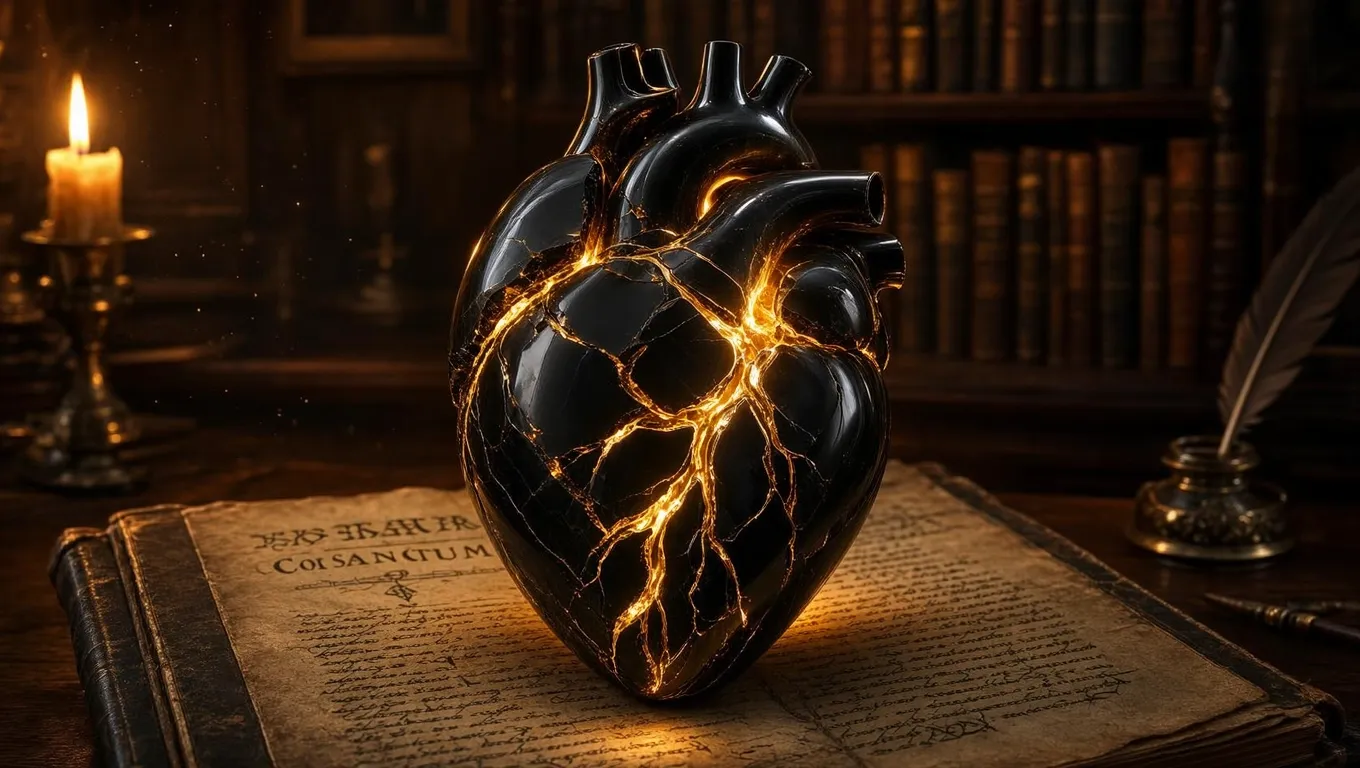
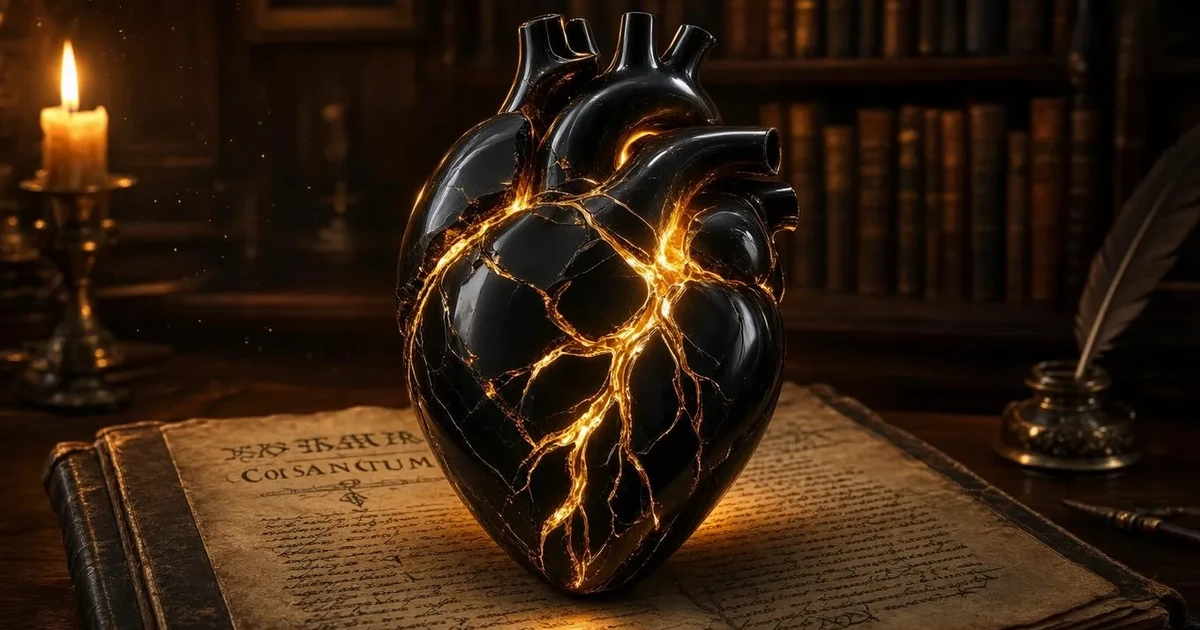
fix(seo): NEW-59-REOPEN — actually resize hard-texts og:image to 1200x630
The previous 'fix' (c0ab48fc) only changed the declared og:image:width/height
meta values from 1200x630 to 1360x768 to match the actual (non-standard)
asset, instead of resizing the asset to the recommended Open Graph size.
As a result, npm run seo-audit continued warning on every run after that
commit — the ledger claimed 'fixed-current' but the detector never agreed.

This commit does the actual fix: center-cropped images/og-series-heart.webp
from 1360x768 to the standard 1200x630 (scale to width 1200, then
center-crop height), preserving the full composition (candle left, heart
center, quill right — nothing important was in the cropped margins).
Updated og:image:width/height back to 1200/630 in both the Astro source
and the legacy root HTML copy.

Before: ⚠ hard-texts/index.html: og:image dimensions are 1360x768, recommended 1200x630
After:  SEO audit passed: 0 errors, 0 warnings.

Found during AuditRepo Pass 65 deep audit (NEW-59-REOPEN / NEW-OG-SIZE-PARAM).

[LANE lane/seo-fix-og-images-2026-07-05]

diff --git a/hard-texts/index.html b/hard-texts/index.html
@@ -23,8 +23,8 @@
   <meta property="og:site_name" content="Господь Бог — Сила Моя">
   <meta property="og:locale" content="ru_RU">
   <meta property="og:image" content="https://gospod-bog.ru/images/og-series-heart.webp">
-  <meta property="og:image:width" content="1360">
-  <meta property="og:image:height" content="768">
+  <meta property="og:image:width" content="1200">
+  <meta property="og:image:height" content="630">
   <meta property="og:image:type" content="image/webp">
   <meta property="og:image:alt" content="Тайны человеческого сердца — серия экзегетических разборов">
   <meta name="author" content="Фёдор Милованов">
